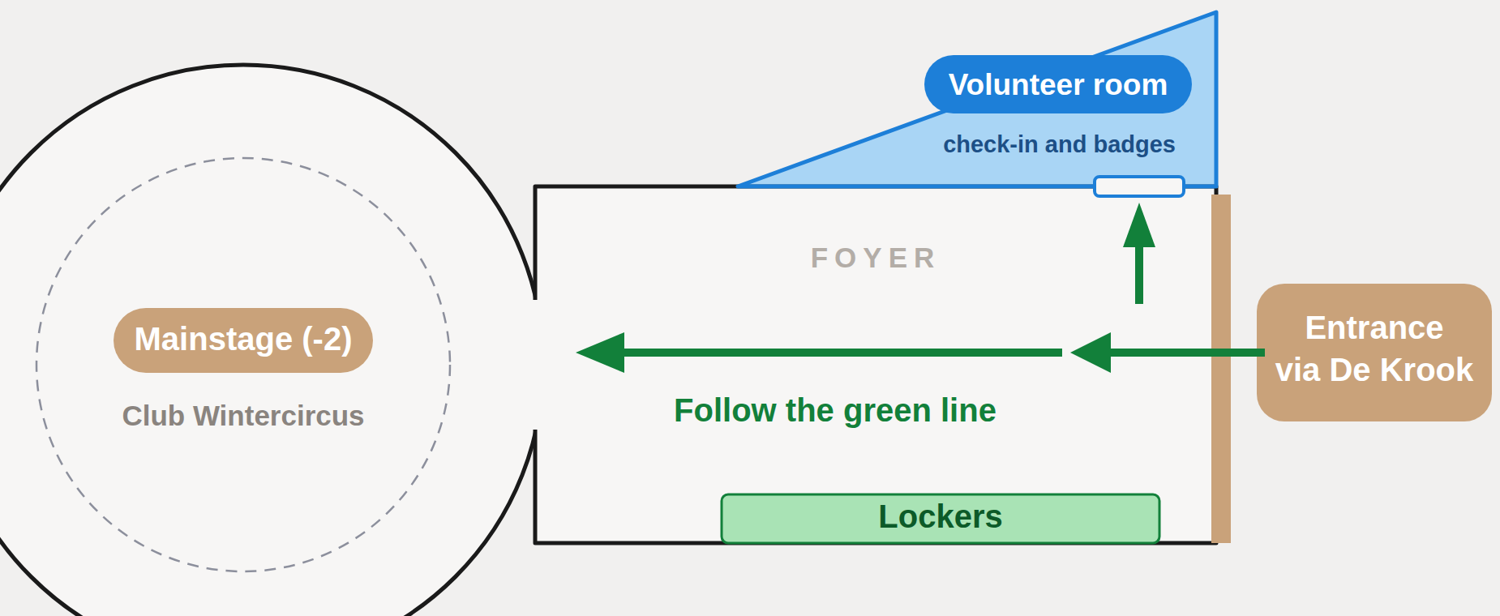
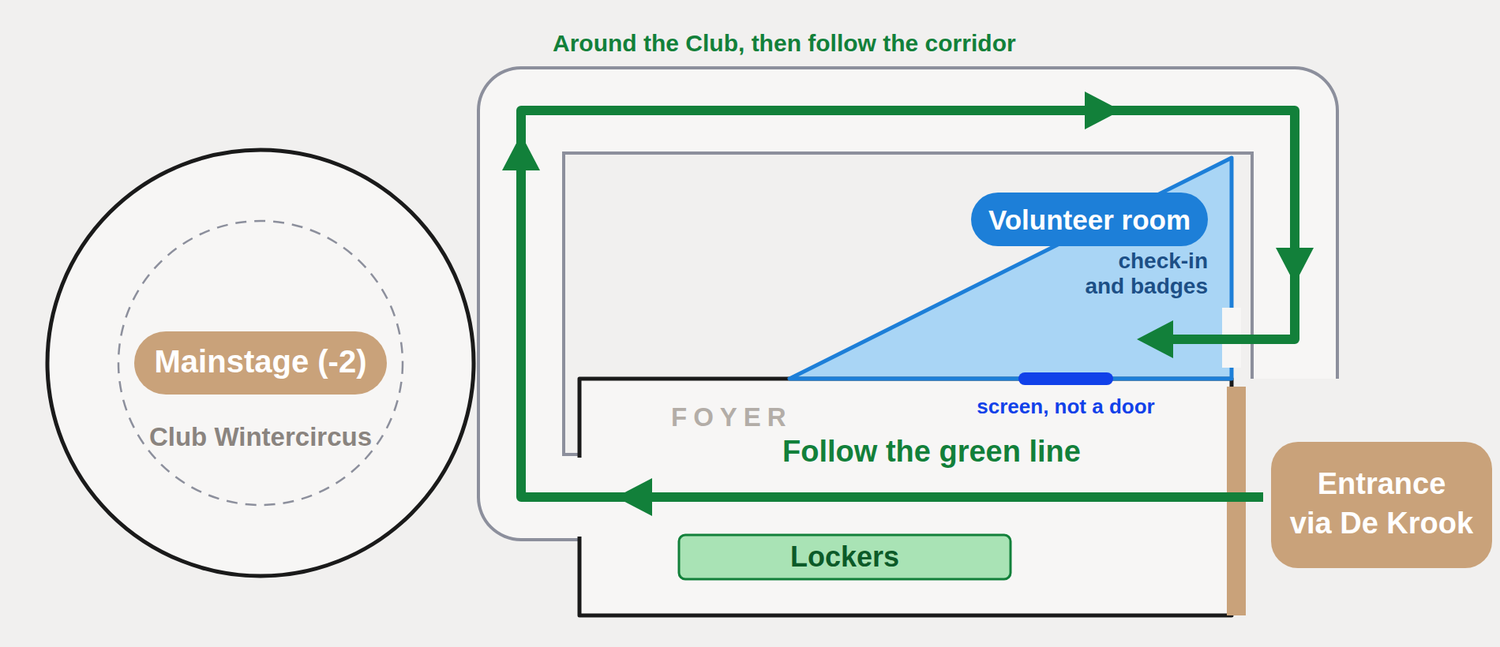
Fix volunteer room route: no door to the foyer, go around the Club
The blue bar on the foyer wall is a screen, not a door. Redraw the route
map and update the onboarding, FAQ and quiz texts.

Claude-Session: https://claude.ai/code/session_016nJpnPrr8wGxms8zfNTY8E

diff --git a/src/data/onboarding.ts b/src/data/onboarding.ts
@@ -190,9 +190,9 @@ export const ON_THE_DAY = {
   title: "Your day, step by step",
   map: {
     title: "Enter via De Krook and follow the green line",
-    body: "The volunteer room is marked in blue: that is where you check in and pick up your badge. The lockers are in the foyer. Everyone enters via De Krook. If your case is different, we will message you on WhatsApp.",
+    body: "The volunteer room is marked in blue: that is where you check in and pick up your badge. You cannot enter it from the foyer, the blue bar on the wall is a screen, not a door. Walk through the foyer, around the Club Wintercircus hall and follow the corridor: the room is at the end, on the right. The lockers are in the foyer. Everyone enters via De Krook. If your case is different, we will message you on WhatsApp.",
     src: "/wintercircus-route-krook.png",
-    alt: "Schematic of level -2 of Wintercircus: the entrance via De Krook on the right, a green line through the foyer past the lockers towards the Club Wintercircus main stage, and the volunteer room marked in blue next to the entrance.",
+    alt: "Schematic of level -2 of Wintercircus: the entrance via De Krook on the right, a green line through the foyer past the lockers, around the Club Wintercircus hall and along the corridor to the volunteer room, marked in blue, which you enter from the east side. The blue bar on the foyer wall is a screen, not a door.",
     label: "Open Wintercircus in Google Maps",
     href: "https://www.google.com/maps/search/?api=1&query=Wintercircus+Sint-Pietersnieuwstraat+11+Gent",
   },
@@ -205,7 +205,7 @@ export const ON_THE_DAY = {
     {
       id: "check-in",
       title: "Check in",
-      body: "Enter via **De Krook** and follow the **green line** to the **blue volunteer room**. If your case is different, we will message you on WhatsApp. Pick up your badge here: you cannot enter without it.",
+      body: "Enter via **De Krook** and follow the **green line** to the **blue volunteer room**. The room has no door to the foyer: go around the Club Wintercircus hall and follow the corridor. If your case is different, we will message you on WhatsApp. Pick up your badge here: you cannot enter without it.",
     },
     {
       id: "things",

diff --git a/src/data/onboardingQuiz.ts b/src/data/onboardingQuiz.ts
@@ -45,7 +45,7 @@ export const ESSENTIALS = {
     },
     {
       title: "Check in at Wintercircus",
-      body: "The check-in point is in the volunteer room in Wintercircus, downstairs. Enter via De Krook and follow the green line. Pick up your badge there: you cannot enter without it.",
+      body: "The check-in point is in the volunteer room in Wintercircus, downstairs. Enter via De Krook and follow the green line: through the foyer, around the Club Wintercircus hall and along the corridor. The room has no door to the foyer. Pick up your badge there: you cannot enter without it.",
     },
     {
       title: "Running late or sick?",
@@ -96,7 +96,7 @@ export const QUIZ_QUESTIONS: QuizQuestion[] = [
     ],
     correctIndex: 0,
     explanation:
-      "Check in at the volunteer room in Wintercircus. Enter via De Krook and follow the green line.",
+      "Check in at the volunteer room in Wintercircus. Enter via De Krook and follow the green line around the Club Wintercircus hall and along the corridor.",
   },
   {
     id: "badge",

diff --git a/src/data/faq.ts b/src/data/faq.ts
@@ -27,7 +27,7 @@ export const FAQ_ITEMS: FaqItem[] = [
     category: "arriving",
     question: "Where do I check in?",
     answer:
-      "In the **volunteer room in Wintercircus** (Sint-Pietersnieuwstraat 11), downstairs. Enter via **De Krook** and follow the green line. If you have a special case, we will message you on WhatsApp. Arrive 15 minutes before your shift.",
+      "In the **volunteer room in Wintercircus** (Sint-Pietersnieuwstraat 11), downstairs. Enter via **De Krook** and follow the green line: through the foyer, around the Club Wintercircus hall and along the corridor. The blue screen on the foyer wall is not a door. If you have a special case, we will message you on WhatsApp. Arrive 15 minutes before your shift.",
   },
   {
     id: "volunteer-rooms",
